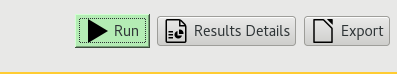
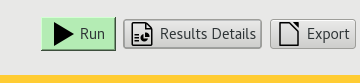
Corrected monstrous image size

Changed region(s): [[0.0917, 0.1892, 1.0, 0.6486], [0.0, 0.8919, 1.0, 0.973]]

diff --git a/clustering.html b/clustering.html
@@ -206,15 +206,15 @@
             <br><br>
             To visualize their values, click on the <em style="font-size : 14px"><b>'Result Details'</b></em> button on the top bar.
             <div style="padding-left: 22%; padding-top: 1%;padding-bottom: 1%;">
-              <img src="imgs/result_details.png" style="width:70%">
+              <img src="imgs/result_details.png" style="width:40%">
             </div>
             A pop-up window containing parameters, cluster centers and indexes values will appear.
             <div style="padding-left: 22%; padding-top: 1%;padding-bottom: 1%;">
-              <img src="imgs/result_details_popup.png" style="width:70%">
+              <img src="imgs/result_details_popup.png" style="width:40%">
             </div>
              Its contents can be saved in a .txt file by clicking on <em style="font-size : 14px"><b>'Save as text file'</b></em>.
              <div style="padding-left: 22%; padding-top: 1%;padding-bottom: 1%;">
-               <img src="imgs/export_save.png" style="width:70%">
+               <img src="imgs/export_save.png" style="width:40%">
              </div>
           </p>
 
